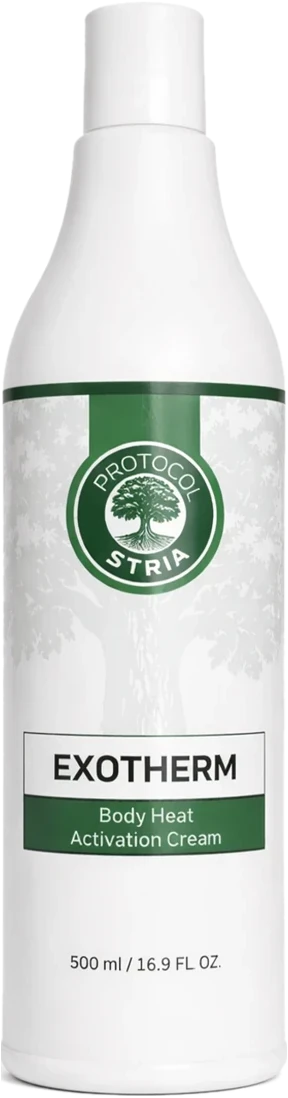
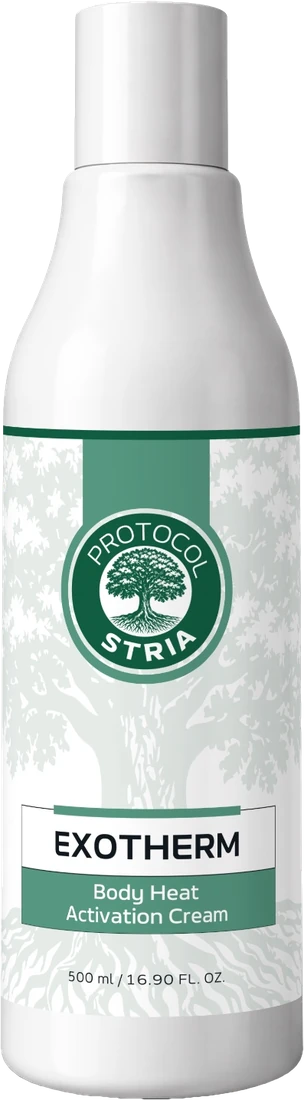
Kabin Exotherm şişe görseli yeni fotoğrafla değiştirildi
Claude-Session: https://claude.ai/code/session_01XvpMot7LqxZbjZwDPzSGNi

diff --git a/src/data/index.ts b/src/data/index.ts
@@ -30,7 +30,7 @@ export const policies = policiesJson as { title: string; blocks: { h?: string; p
 const BASE = import.meta.env.BASE_URL
 export const img = (name: string) => `${BASE}img/${name}.webp`
 // bump when product photos are replaced, so browsers drop their cached copies
-const PRODUCT_IMG_VERSION = '2'
+const PRODUCT_IMG_VERSION = '3'
 export const productImg = (slug: string) => `${img(`p-${slug}`)}?v=${PRODUCT_IMG_VERSION}`
 export const bySlug = (slug?: string) => products.find(p => p.slug === slug)
 export const lineProducts = (line: Line) => products.filter(p => p.line === line)
